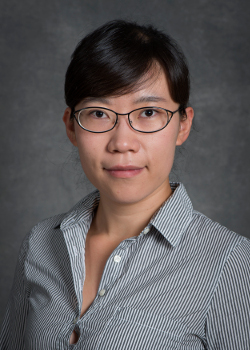
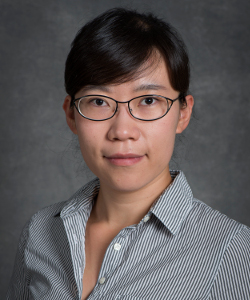
image crop.

diff --git a/less/style.less b/less/style.less
@@ -67,12 +67,12 @@ ul.pubs {
 
 img.jing-large {
     width: 250px;
-    height: 350px;
+    height: 300px;
 }
 
 img.jing {
     width: 150px;
-    height: 210px;
+    height: 180px;
 }
 
 img.cover {
